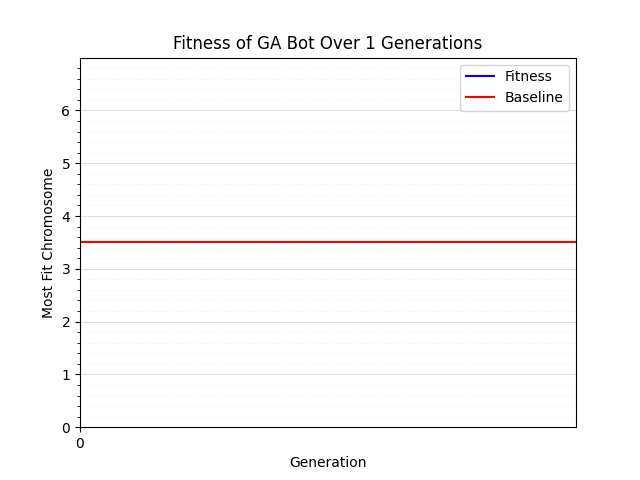
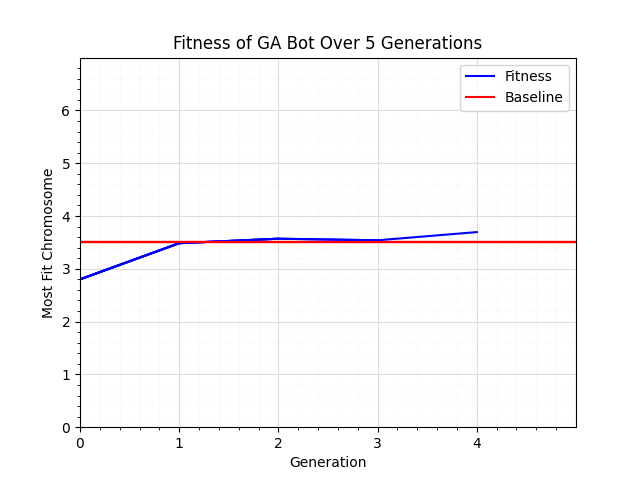
plot fixes, results

diff --git a/examples/gaScriptedBot.py b/examples/gaScriptedBot.py
@@ -1128,16 +1128,17 @@ def main(choiceIn = "c", oppIn = "r", popSizeIn = 100, numToSaveIn = 1, genLimIn
         ax.plot(plotFitness, 'b', label="Fitness")
         ax.axhline(3.5, color="red", label="Baseline")
         ax.set_xlim(1, generation)
-        if (generation == 1):
-            ax.set_xlim(0, generation)
-#        yLimUp = math.ceil(bestOverall[1])
-#        yLimDown = math.floor(worstOverall[1])
-#        ax.set_ylim(yLimDown, yLimUp)
         if generation < 10:
             xTicks = 1
         else:
             xTicks = generation // 10
-        ax.set_xticks(range(0, generation, xTicks))
+        ax.set_xticks(range(1, generation, xTicks))
+        if (generation == 1):
+            ax.set_xlim(0, generation)
+            ax.set_xticks(range(0, generation, xTicks))
+#        yLimUp = math.ceil(bestOverall[1])
+#        yLimDown = math.floor(worstOverall[1])
+#        ax.set_ylim(yLimDown, yLimUp)
 #        yTicks = (abs(yLimUp) + abs(yLimDown)) // 10
 #        ax.set_yticks(np.arange(yLimDown, yLimUp, yTicks))
         fig.savefig(f'results/plot_{filename}.png')
